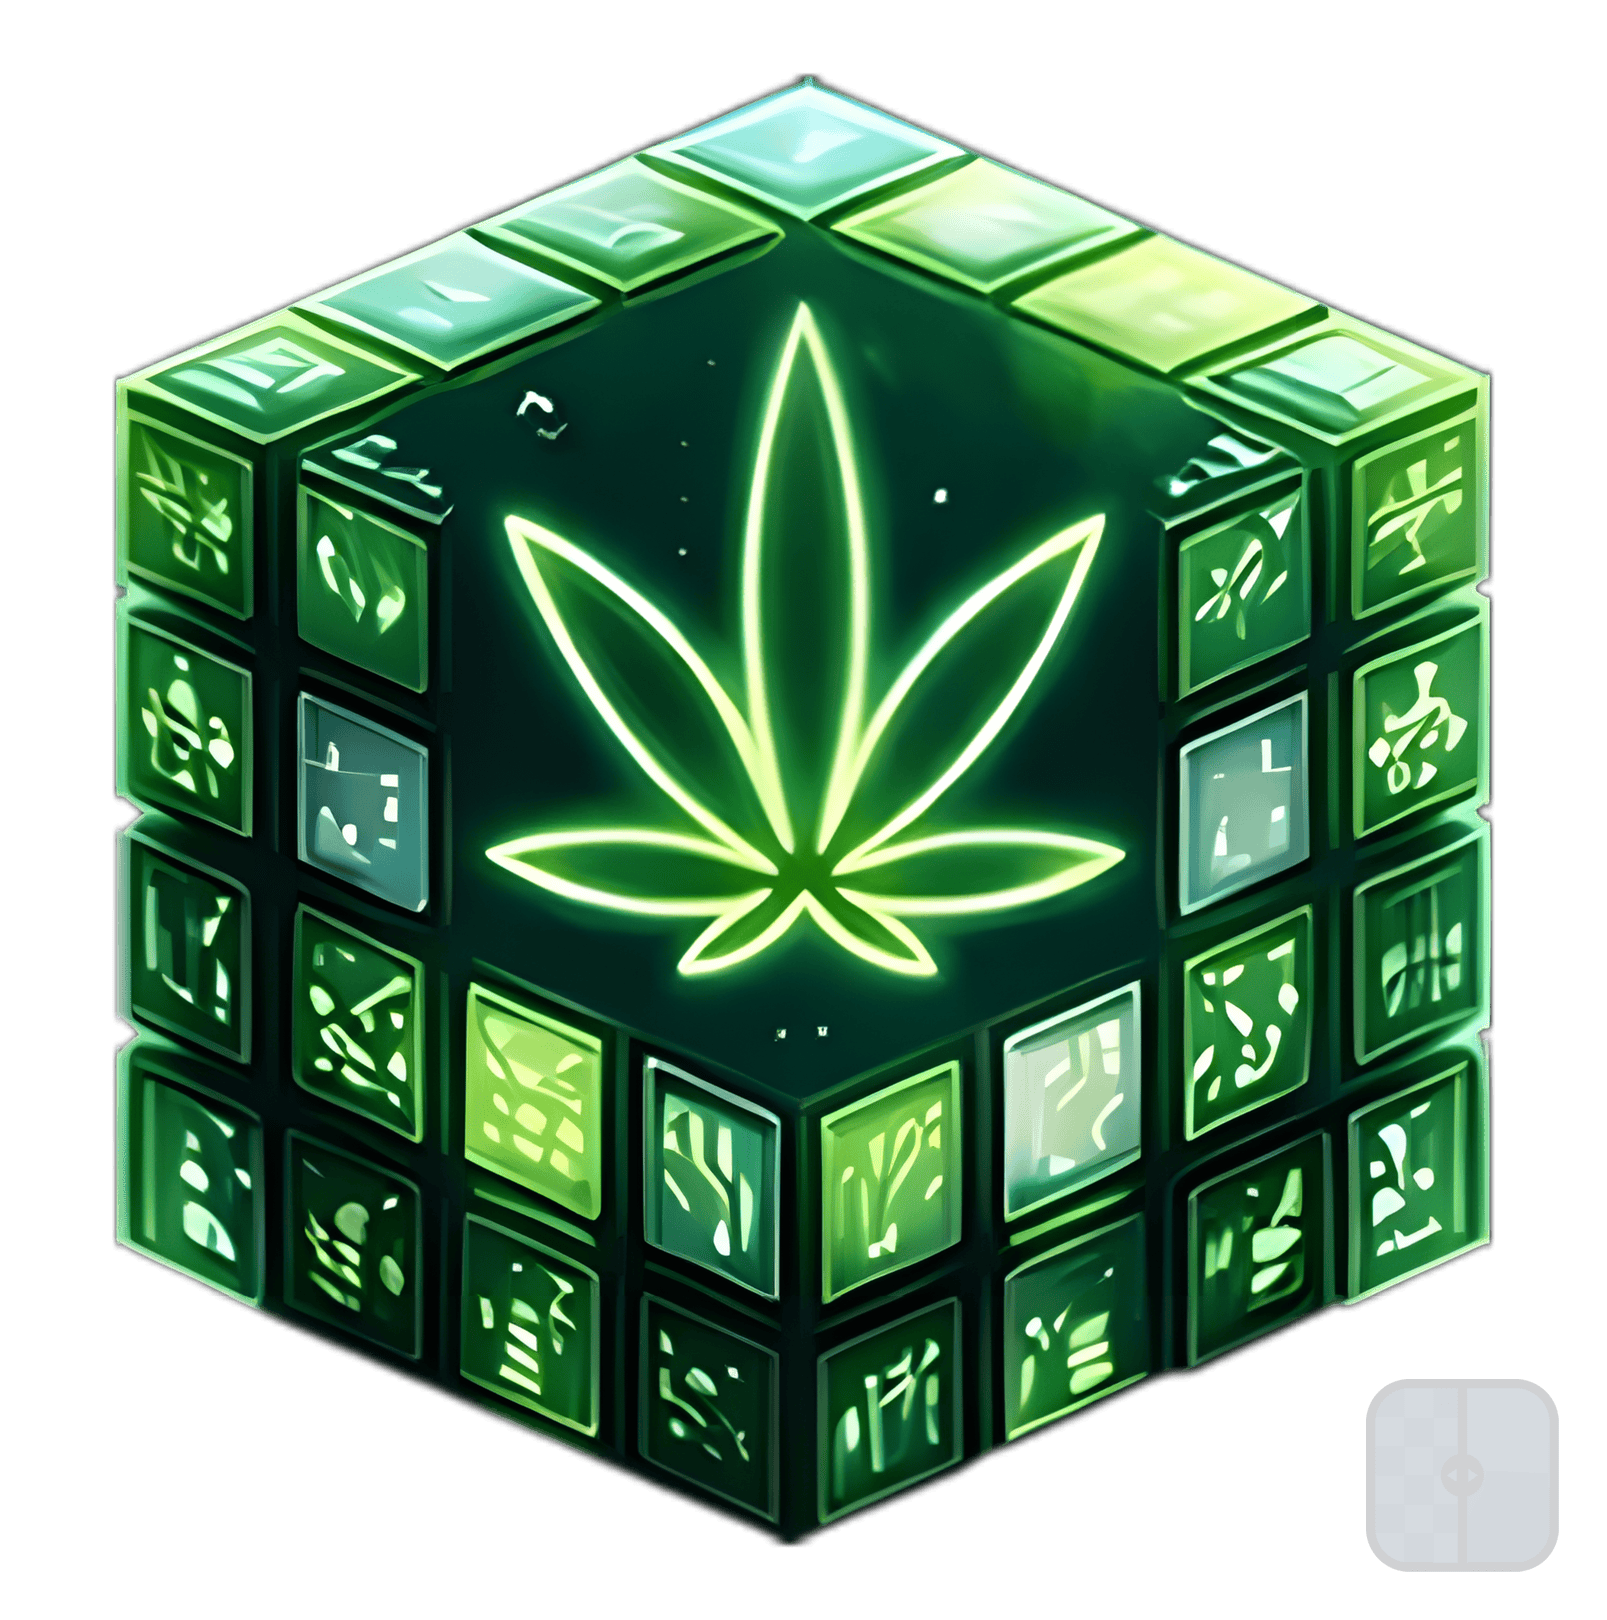
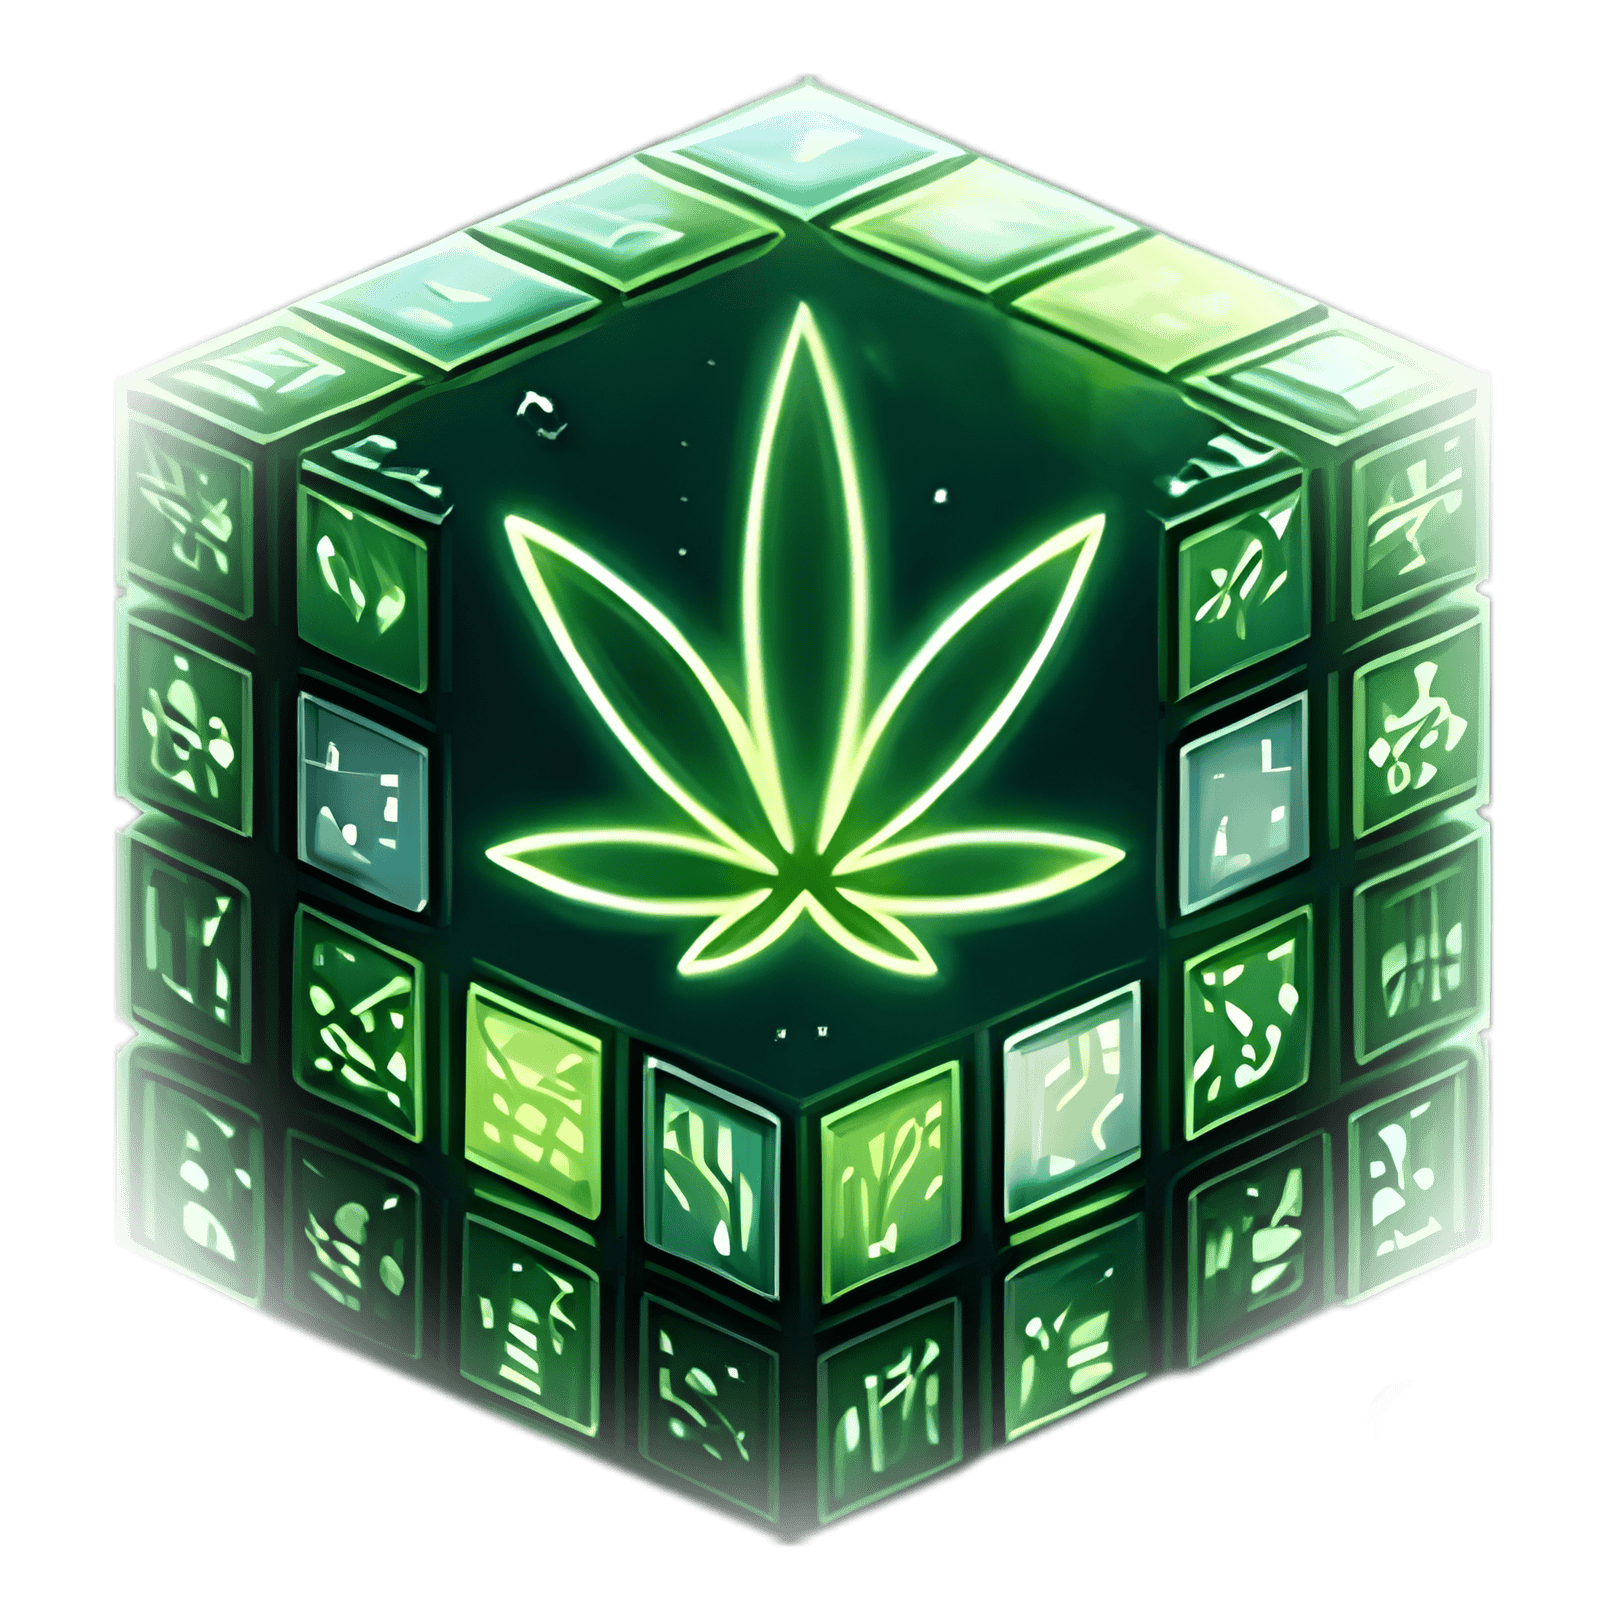
fix(hero): bake soft alpha fade into cube PNG, drop CSS mask
The upscayl AI output had a hard alpha cliff (no anti-alias at the
boundary), so the dark-green cube edge pixels read as a square halo on
the hero background. CSS radial masks couldn't fully hide it because the
underlying alpha was binary.

Bake a soft circular alpha fade directly into the PNG (PIL ellipse +
Gaussian blur + alpha multiply), then remove the now-redundant CSS mask
on .bs-cube-img.

diff --git a/nextjs_space/app/globals.css b/nextjs_space/app/globals.css
@@ -1164,14 +1164,9 @@ html {
   mix-blend-mode: screen;
   pointer-events: none;
 }
-/* Cube PNG: upscayl AI threshold-ed the alpha to a hard cliff (no anti-alias
-   at the boundary), and the cube body has dark green pixels at its edges that
-   read as a square halo on the dark hero. Aggressive radial mask feathers
-   those edges so the cube floats cleanly. */
-.budstacks-theme .bs-cube-img {
-  -webkit-mask-image: radial-gradient(ellipse 60% 60% at 50% 50%, #000 50%, rgba(0,0,0,0.65) 72%, rgba(0,0,0,0.25) 86%, transparent 95%);
-  mask-image: radial-gradient(ellipse 60% 60% at 50% 50%, #000 50%, rgba(0,0,0,0.65) 72%, rgba(0,0,0,0.25) 86%, transparent 95%);
-}
+/* Cube PNG has a soft circular alpha fade baked in (PIL ellipse mask + Gaussian
+   blur + alpha multiply), so no CSS mask is needed — the PNG itself fades to
+   transparent with no square edge. */
 .budstacks-theme .bs-cube-vignette {
   position: absolute;
   inset: -10%;
